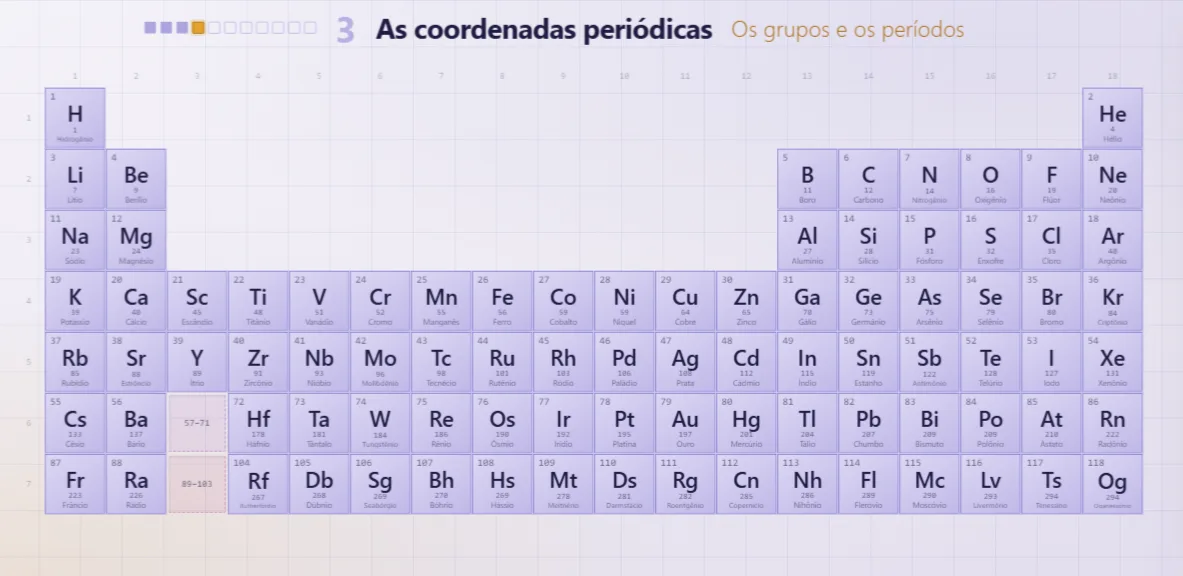
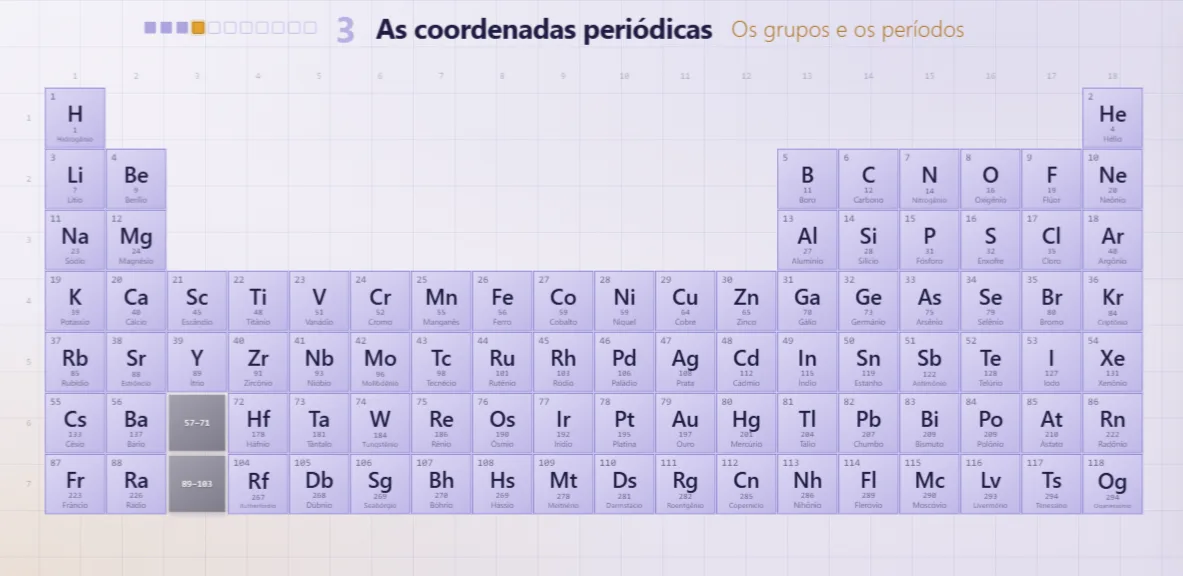
v9.3 · As casas 57–71 e 89–103 viram um card cinza

Changed region(s): [[0.1217, 0.6875, 0.213, 0.9062]]

diff --git a/tabela-periodica.html b/tabela-periodica.html
@@ -575,13 +575,17 @@ html.capa-escura #versao{color:rgba(242,238,230,.55)}
 }
 /* as duas casas que guardam as séries: elas não têm elemento dentro,
    têm um bilhete dizendo onde procurar */
+/* um card cinza, com o acabamento dos cubos (a luz de cima para baixo, a
+   borda clara): é lugar de elemento, mas os dele estão lá embaixo */
 .casa.serie{
   display:grid;place-items:center;
   font-family:var(--mono);font-size:10px;line-height:1.4;text-align:center;
-  color:var(--tinta-dim);background:rgba(139,63,190,.10);
-  border:1px dashed rgba(139,63,190,.45);
+  color:rgba(255,255,255,.92);text-shadow:0 1px 2px rgba(0,0,0,.35);
+  background:linear-gradient(145deg,#A3A1AE,#7E7C8B);
+  border:1px solid rgba(255,255,255,.24);
+  box-shadow:0 2px 6px rgba(32,28,66,.18);
 }
-.casa.serie.act{background:rgba(177,64,140,.10);border-color:rgba(177,64,140,.45)}
+.casa.serie.act{background:linear-gradient(145deg,#A3A1AE,#7E7C8B)}
 
 /* ---------- O CUBO ----------
    Cada elemento é um cubo de seis faces iguais: em todas elas o mesmo
@@ -2259,7 +2263,7 @@ const SLIDES = [
    worker recebe-a no endereço com que é registado (sw.js?v=…). Mudando
    este texto, muda o endereço, o aparelho instala o serviço novo e o
    cache velho vai-se embora — não há uma segunda versão para esquecer. */
-const VERSAO = 'v9.2';
+const VERSAO = 'v9.3';
 
 /* A CAPA NOVA — a ideia do Claude Design: fundo escuro, o título grande e
    claro à esquerda, a tabelinha apagada ao fundo à direita e o sódio, o
